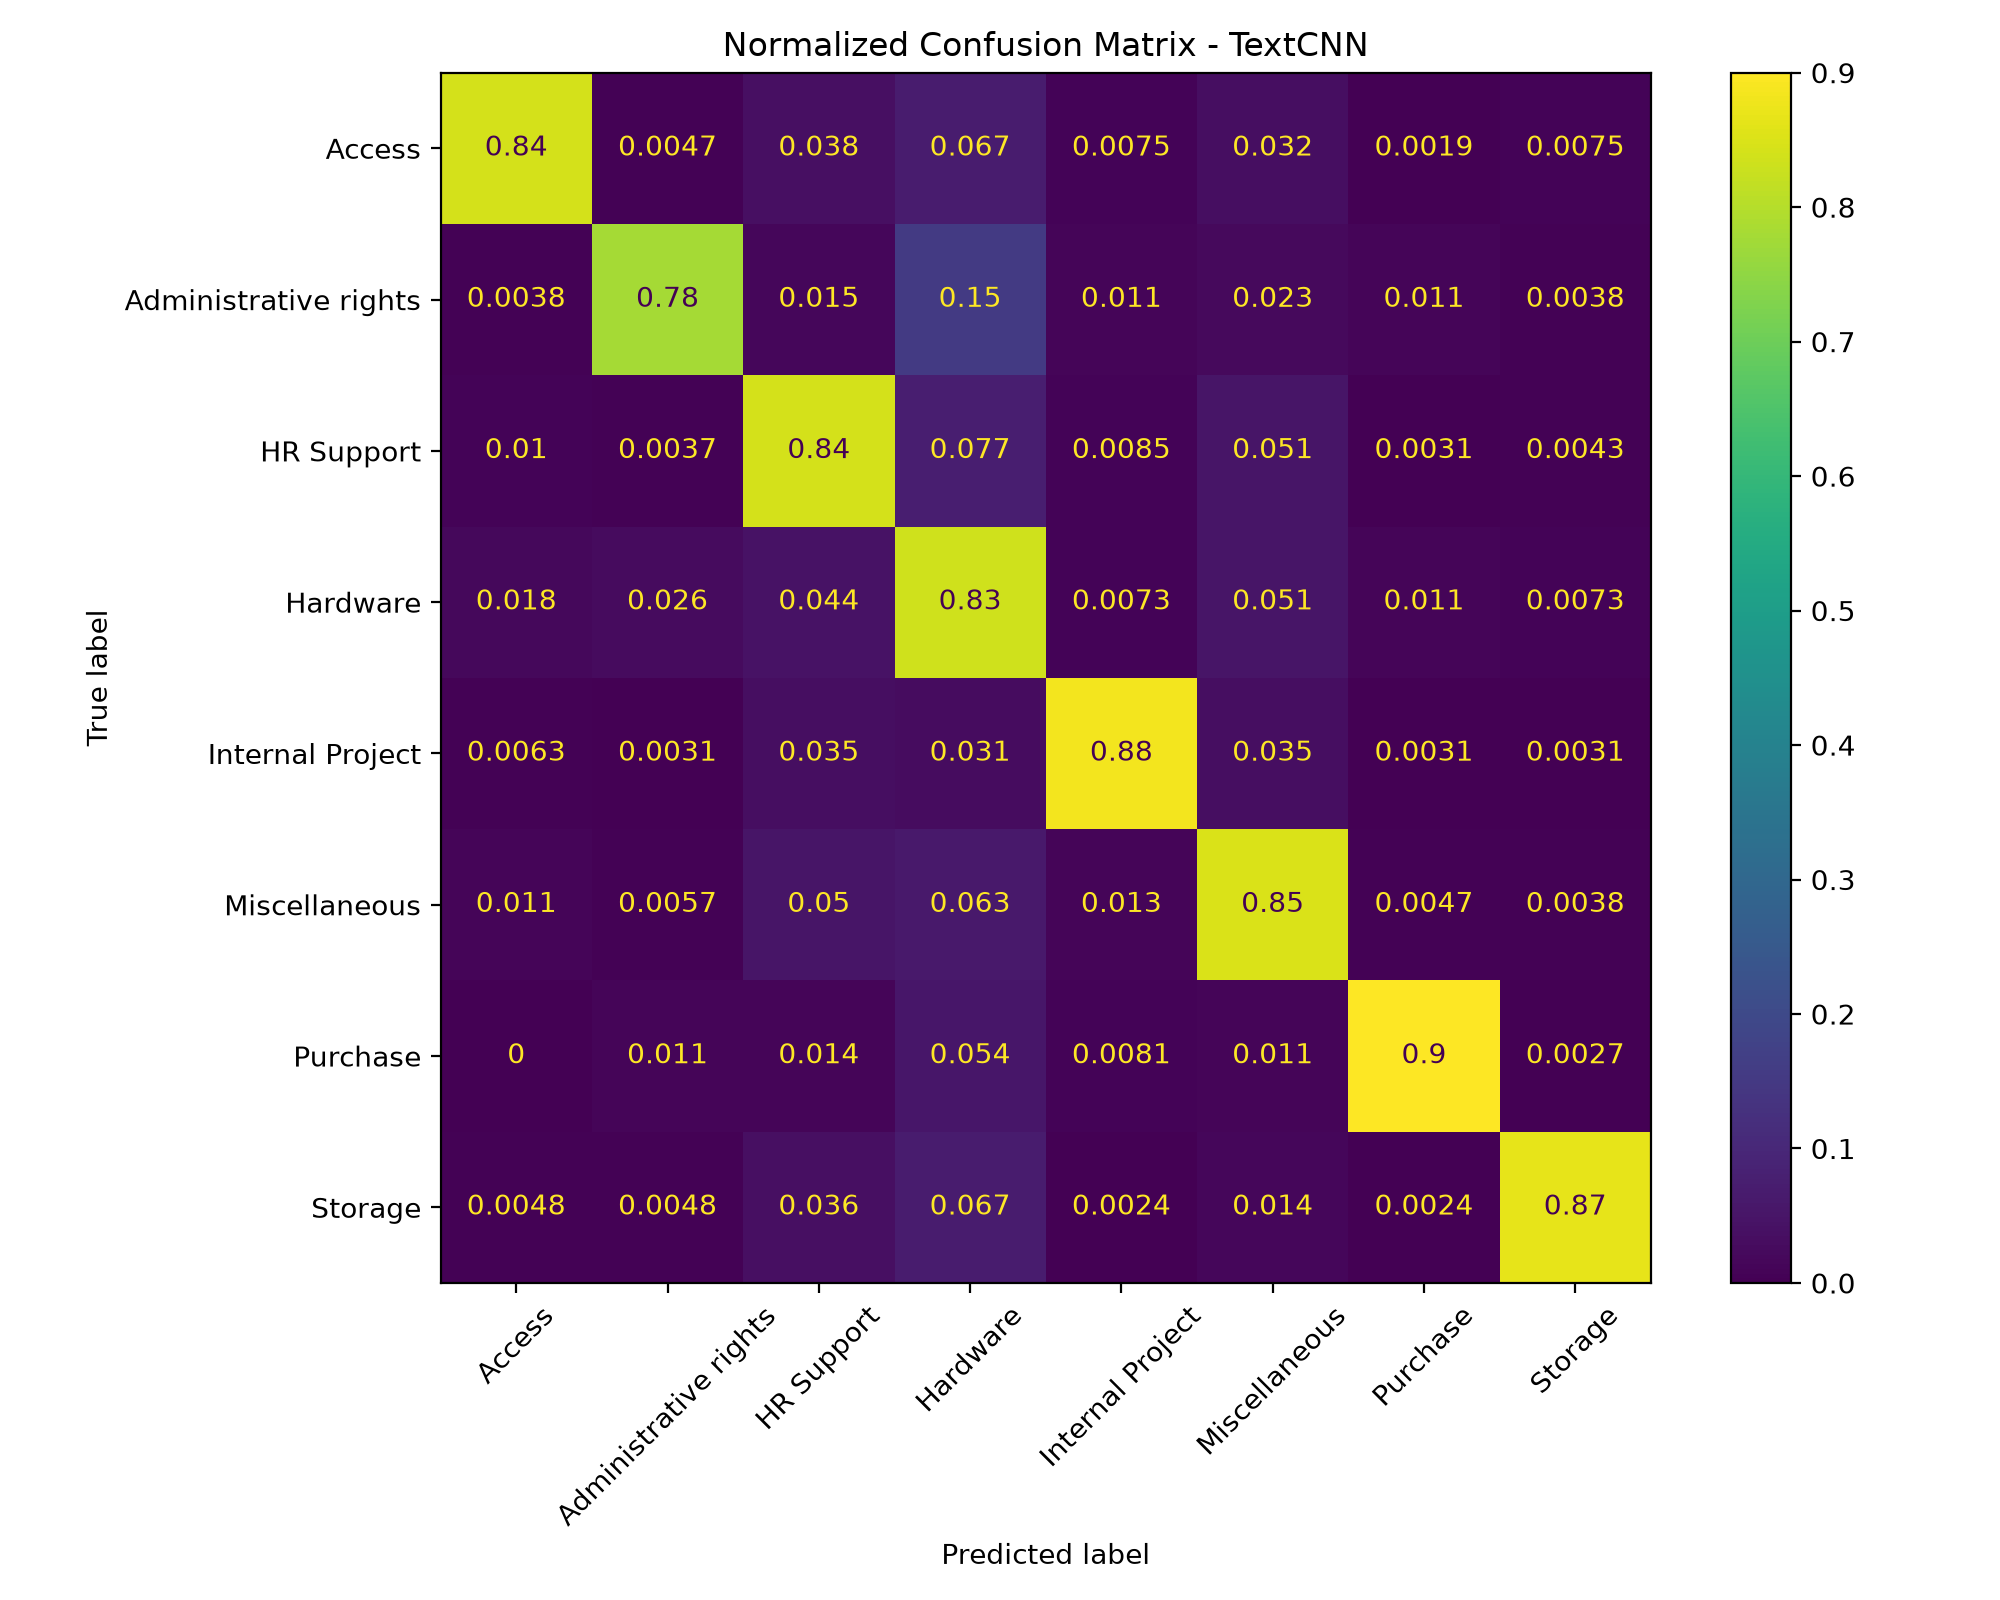
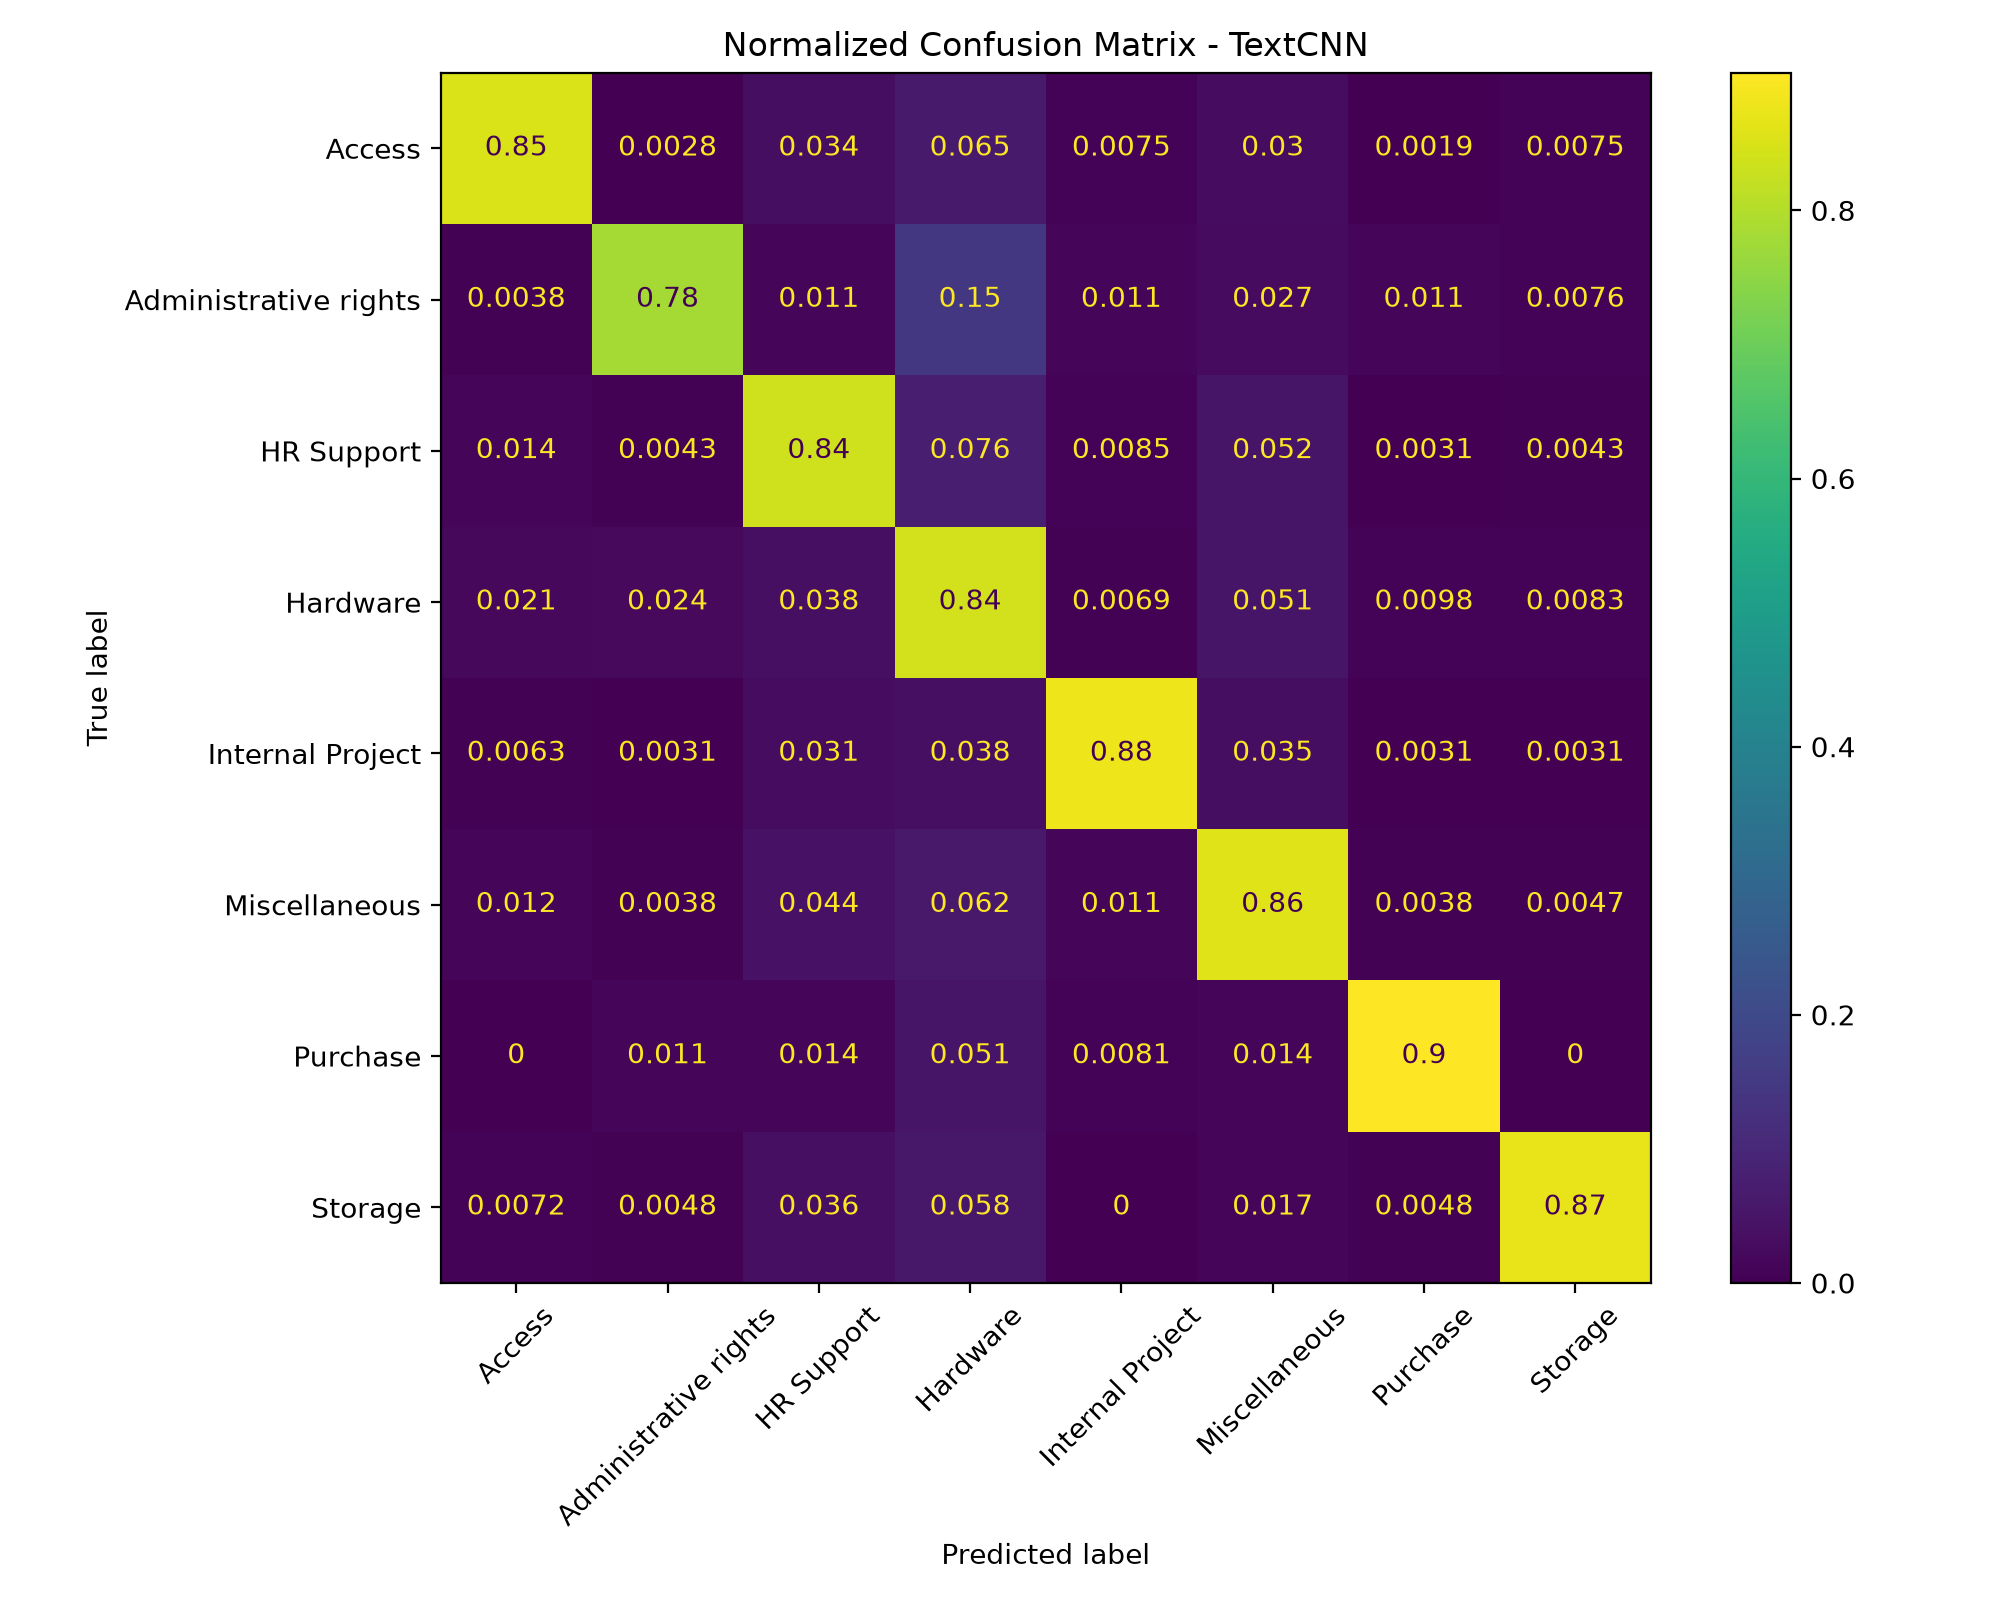
Complete code review fixes

diff --git a/app/main.py b/app/main.py
@@ -1,21 +1,24 @@
 import os
-
 from contextlib import asynccontextmanager
 
-from fastapi import FastAPI
-from pydantic import BaseModel, Field
+import secrets
+
+from fastapi import (
+    Depends,
+    FastAPI,
+    Header,
+    HTTPException,
+    status,
+)
+from pydantic import BaseModel, Field, field_validator
 
 from src.inference import get_predictor
-
 
 # ============================================================
 # Configuration
 # ============================================================
 
-MODEL_BACKEND = os.getenv(
-    "MODEL_BACKEND",
-    "baseline",
-)
+MODEL_BACKEND = os.getenv("MODEL_BACKEND", "baseline")
 
 
 # ============================================================
@@ -24,19 +27,9 @@ MODEL_BACKEND = os.getenv(
 
 @asynccontextmanager
 async def lifespan(app: FastAPI):
-
-    print(
-        f"Loading model: {MODEL_BACKEND}"
-    )
-
-    app.state.predictor = (
-        get_predictor(
-            MODEL_BACKEND
-        )
-    )
-
+    print(f"Loading model: {MODEL_BACKEND}")
+    app.state.predictor = get_predictor(MODEL_BACKEND)
     yield
-
     app.state.predictor = None
 
 
@@ -45,18 +38,9 @@ async def lifespan(app: FastAPI):
 # ============================================================
 
 app = FastAPI(
-    title=(
-        "IT Service Ticket Classifier"
-    ),
-
-    description=(
-        "Automatically classifies "
-        "IT service tickets into "
-        "support categories."
-    ),
-
+    title="IT Service Ticket Classifier",
+    description="Automatically classifies IT service tickets into support categories.",
     version="1.0.0",
-
     lifespan=lifespan,
 )
 
@@ -66,39 +50,34 @@ app = FastAPI(
 # ============================================================
 
 class TicketRequest(BaseModel):
-
     text: str = Field(
         min_length=3,
         max_length=5000,
-        examples=[
-            (
-                "I cannot access "
-                "the shared network drive"
-            )
-        ],
+        examples=["I cannot access the shared network drive"],
     )
+
+    @field_validator("text")
+    @classmethod
+    def validate_text(cls, value: str) -> str:
+        value = value.strip()
+        if len(value) < 3:
+            raise ValueError(
+                "Ticket text must contain at least 3 non-whitespace characters."
+            )
+        return value
 
 
 class TopPrediction(BaseModel):
-
     category: str
-
     probability: float
 
 
 class PredictionResponse(BaseModel):
-
     category: str
-
     confidence: float
-
     threshold: float
-
     needs_manual_review: bool
-
-    top_3: list[
-        TopPrediction
-    ]
+    top_3: list[TopPrediction]
 
 
 # ============================================================
@@ -107,11 +86,7 @@ class PredictionResponse(BaseModel):
 
 @app.get("/")
 def root():
-
-    return {
-        "message":
-            "IT Service Ticket Classifier"
-    }
+    return {"message": "IT Service Ticket Classifier"}
 
 
 # ============================================================
@@ -120,34 +95,55 @@ def root():
 
 @app.get("/health")
 def health():
-
-    return {
-        "status": "ok",
-
-        "model_backend":
-            MODEL_BACKEND,
-    }
+    return {"status": "ok", "model_backend": MODEL_BACKEND}
 
 
 # ============================================================
 # Prediction
 # ============================================================
 
+@app.post("/predict", response_model=PredictionResponse)
+def predict_ticket(request: TicketRequest):
+    result = app.state.predictor.predict(request.text)
+    return result
+
+API_KEY = os.getenv(
+    "API_KEY"
+)
+
+
+def require_api_key(
+    x_api_key: str | None = Header(
+        default=None
+    ),
+):
+    # Local/demo mode:
+    # no API_KEY environment variable means no auth.
+    if API_KEY is None:
+        return
+
+    if (
+        x_api_key is None
+        or not secrets.compare_digest(
+            x_api_key,
+            API_KEY,
+        )
+    ):
+        raise HTTPException(
+            status_code=
+                status.HTTP_401_UNAUTHORIZED,
+            detail="Invalid API key",
+        )
+
 @app.post(
     "/predict",
-    response_model=
-        PredictionResponse,
+    response_model=PredictionResponse,
 )
 def predict_ticket(
     request: TicketRequest,
+    _=Depends(require_api_key),
 ):
-
-    result = (
-        app.state
-        .predictor
-        .predict(
-            request.text
-        )
+    return (
+        app.state.predictor
+        .predict(request.text)
     )
-
-    return result

diff --git a/src/evaluate_val_cnn.py b/src/evaluate_val_cnn.py
@@ -10,7 +10,7 @@ from torch.utils.data import DataLoader
 from src.data import load_data, split_data
 from src.cnn_data import TicketDataset
 from src.textcnn import TextCNN
-
+from src.evaluate import calculate_metrics
 
 # ============================================================
 # Paths
@@ -201,6 +201,26 @@ predicted_labels = [
     for index in all_predictions
 ]
 
+val_metrics = calculate_metrics(
+    true_labels,
+    predicted_labels,
+)
+
+with open(
+    METRICS_DIR / "cnn_val_metrics.json",
+    "w",
+    encoding="utf-8",
+) as f:
+    json.dump(
+        val_metrics,
+        f,
+        indent=4,
+    )
+
+print("\nCNN Validation Metrics")
+
+for key, value in val_metrics.items():
+    print(f"{key}: {value:.4f}")
 
 # ============================================================
 # Save results

diff --git a/src/train_baseline.py b/src/train_baseline.py
@@ -1,6 +1,7 @@
 from pathlib import Path
 import json
-
+import platform
+import sklearn
 import joblib
 
 from sklearn.pipeline import Pipeline
@@ -105,6 +106,22 @@ def main():
         model,
         model_path,
     )
+
+    metadata = {
+    "python_version": platform.python_version(),
+    "scikit_learn_version": sklearn.__version__,
+    }
+
+    with open(
+        ARTIFACT_DIR / "baseline_metadata.json",
+        "w",
+        encoding="utf-8",
+    ) as f:
+        json.dump(
+            metadata,
+            f,
+            indent=4,
+        )
 
     print(
         f"\nModel saved to {model_path}"

diff --git a/src/inference.py b/src/inference.py
@@ -16,12 +16,6 @@ ARTIFACT_DIR = (
     / "artifacts"
 )
 
-THRESHOLD_PATH = (
-    ROOT_DIR
-    / "reports"
-    / "metrics"
-    / "selected_threshold.json"
-)
 
 BASELINE_THRESHOLD_PATH = (
     ROOT_DIR

diff --git a/README.md b/README.md
@@ -260,13 +260,13 @@ The API validates ticket length, returns the three highest-scoring categories, a
 Train the neural model:
 
 ```bash
-python -m src.traincnn
+python -m src.train_cnn
 ```
 
 Evaluate it on the test split:
 
 ```bash
-python -m src.evaluatecnn
+python -m src.evaluate_cnn
 ```
 
 Generate validation predictions:
@@ -278,7 +278,7 @@ python -m src.evaluate_val_cnn
 After both model metrics are available, compare them with:
 
 ```bash
-python -m src.modelscompare
+python -m src.compare_models
 ```
 
 The CNN can also be served by setting `MODEL_BACKEND=cnn` before starting Uvicorn.
